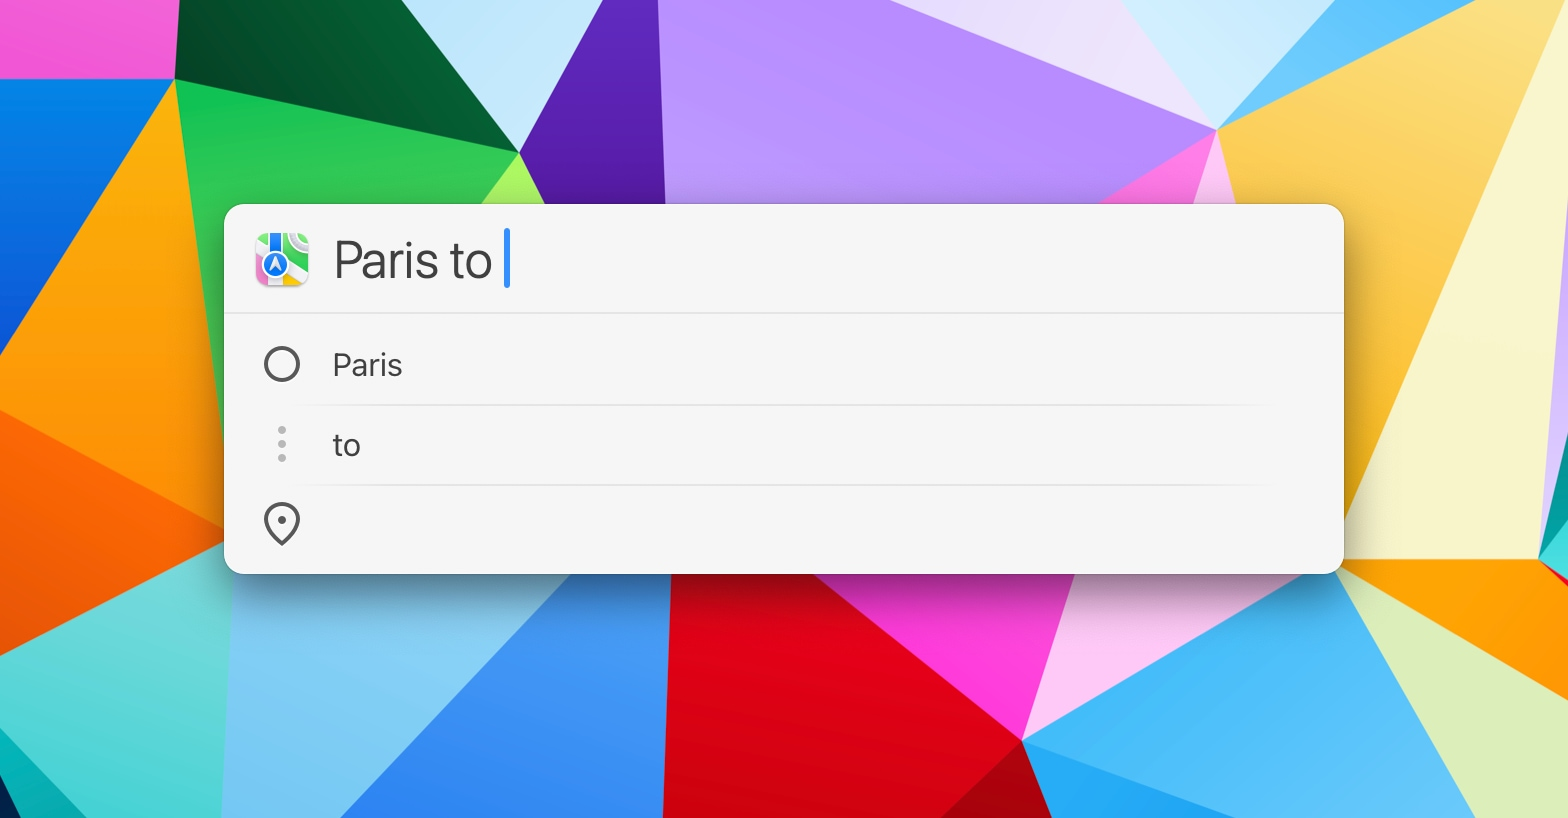
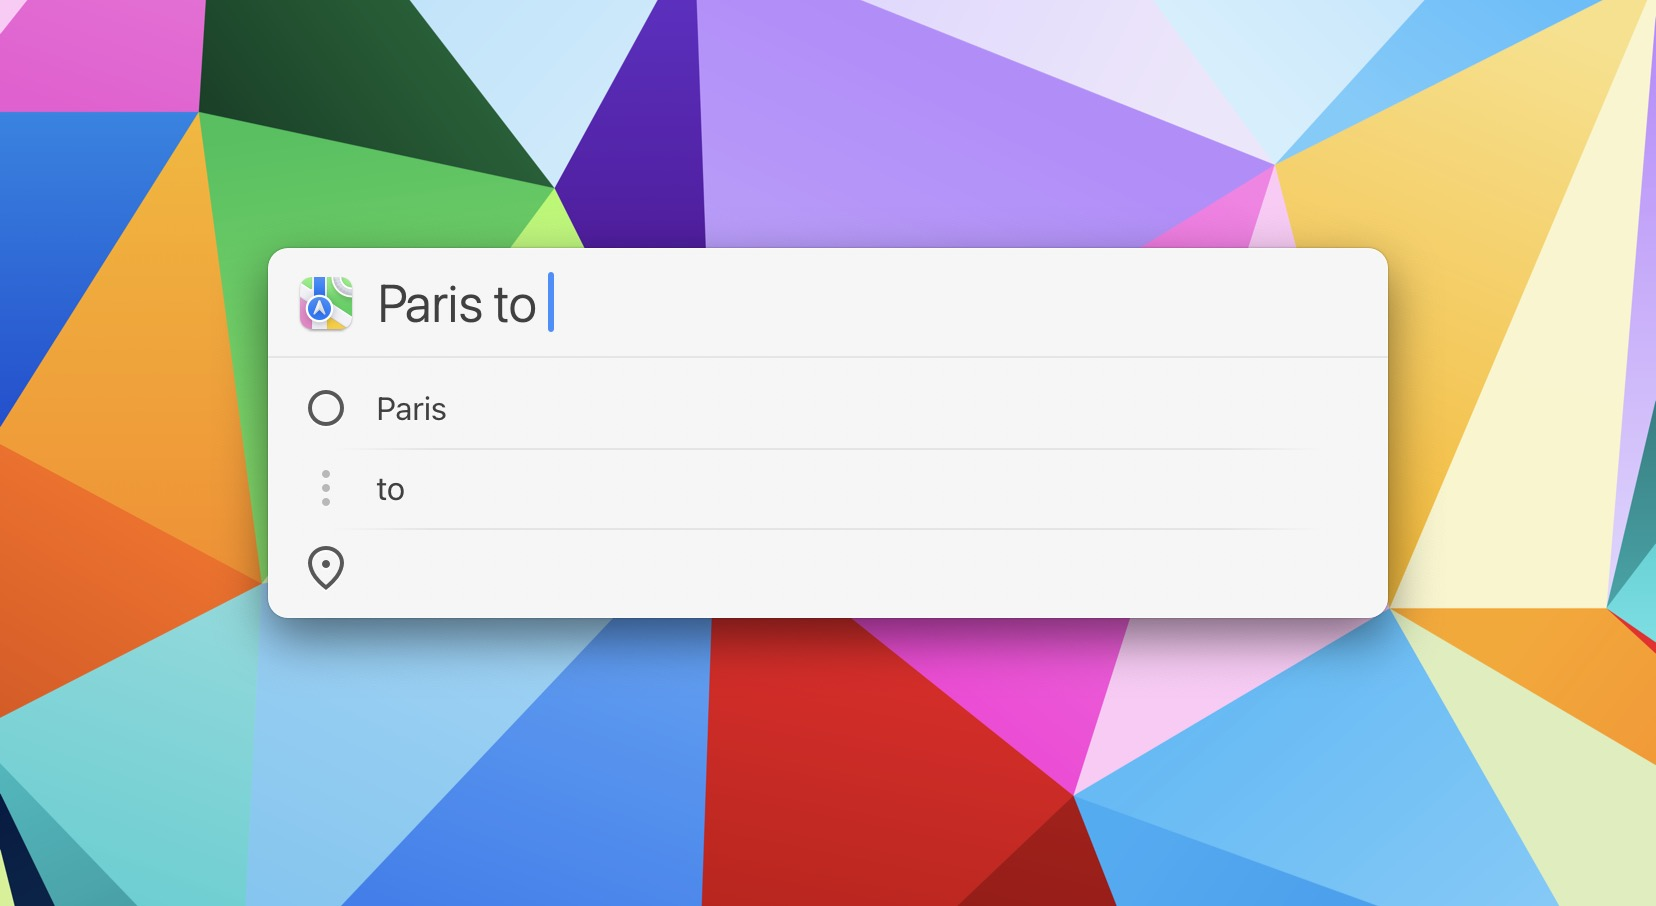
Update Readme

diff --git a/Search-Maps/README.md b/Search-Maps/README.md
@@ -2,25 +2,27 @@
 
 *[→ See a list of all my actions here.](https://ptujec.github.io/launchbar)* 
 
-This action improves searching Apple Maps with LaunchBar. The two main features are sugggestions as you type and support for directions. 
+This action improves searching on Apple Maps with LaunchBar. The two main features of this action are suggestions as you type and support for directions.
 
 ## Suggestions
 
-The action shows suggestions as you type. Because, you know, sometimes it is just hard to recall the correct spelling of certain names. 
+The action displays suggestions as you type. Because, you know, sometimes it's just hard to recall the correct spelling of certain names. 
 
-<img src="01.jpg" width="784"/> 
+<img src="01.jpg" width="828"/> 
 
 ## Directions
 
 If you indicate you are searching for directions (by using "to" or "from"), the action will display how it is interpreting your search query.
 
-<img src="02.jpg" width="784"/> 
+<img src="02.jpg" width="828"/> 
 
-If you want to take advantage of the suggestion feature for your destination you can start your query with the destination followed by the word "from". If you do that you will notice that the action will default to the current location if you don't specify a source location. 
+If you want to utilize the suggestion feature for your destination, you may start your query with the destination followed by the word "from". Doing so will result in the action defaulting to the current location if you do not specify a source location. 
+
+<img src="03.jpg" width="828"/> 
 
 ## Setup
 
-The suggestion script of this action is written in Swift. Swift scripts offer better performance when compiled. [To compile the script, use the Compile Swift Action](https://github.com/Ptujec/LaunchBar/tree/master/Compile-Swift-Action#launchbar-action-compile-swift-action).
+The suggestion script of this action is written in Swift. Swift scripts perform better when compiled. [Therefore, if you want to show suggestions more quickly, you can compile the script using the Compile Swift Action](https://github.com/Ptujec/LaunchBar/tree/master/Compile-Swift-Action#launchbar-action-compile-swift-action).
 
 ## Download
 
